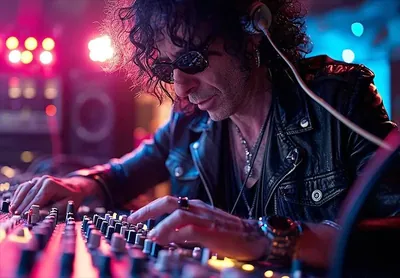
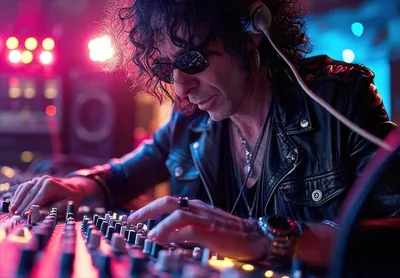
Sharpen the Monsters Invade Oz and Howard Stern pictures
Both were 800 px wide and drawn up to 1069 px, so they read soft on 2x screens. Upscaled 2x with Topaz Gigapixel (Standard) to 1600 px, served as WebP at 1600, 800 and 400 by the same srcset, so a 1x screen still loads about the same bytes.

diff --git a/index.html b/index.html
@@ -780,8 +780,8 @@ const WIDTHS = {
   [M + 'godaddy-aisearch-v1-web.webp']: [1400, 360, 720], [M + 'godaddy-aisearch-v2-web.webp']: [1400, 360, 720],
   [M + 'lexus-finished-pc-web.webp']: [1400, 360, 720], [M + 'lexus-gold-addy-web.webp']: [1400, 360, 720],
   [M + 'lexus-finished-screens-web.webp']: [1400, 360, 720], [M + 'fun/walletwars.webp']: [1400, 360, 720], [M + 'fun/design-canvas.webp']: [920, 360, 720],
-  [M + 'fun/voynich-research.webp']: [1200, 360, 720], 'images/gdc-best-in-play.jpg': [800, 400],
-  'images/howard-stern-web.webp': [800, 400], [M + 'charter/vitals-dark-web.webp']: [750, 360],
+  [M + 'fun/voynich-research.webp']: [1200, 360, 720], 'images/gdc-best-in-play-web.webp': [1600, 400, 800],
+  'images/howard-stern-web.webp': [1600, 400, 800], [M + 'charter/vitals-dark-web.webp']: [750, 360],
   [M + 'charter/heart-dark-web.webp']: [750, 360], [M + 'charter/sleep-dark.webp']: [600, 360],
   [M + 'scholar/logo-3d-web.webp']: [1254, 360, 720],
 };
@@ -898,9 +898,9 @@ const ROLES = [
     ] },
   { name: 'Monsters Invade Oz', sub: 'Little Box', line: 'A mobile game that reached the top 10 free games on the iOS App Store. I built and led the team, and illustrated and animated its 15,000-plus assets. That\'s a lot of monsters.',
     facts: [['Role', 'Co-Founder · Game Designer'], ['Areas', 'Illustration · Motion · Game Design']],
-    hero: [{ img: 'images/gdc-best-in-play.jpg', d: 'screen' }],
+    hero: [{ img: 'images/gdc-best-in-play-web.webp', d: 'screen' }],
     tiles: [
-      { name: 'Best in Play', logo: 'gdc', img: 'images/gdc-best-in-play.jpg', d: 'screen', stat: 'Game Developers Conference' },
+      { name: 'Best in Play', logo: 'gdc', img: 'images/gdc-best-in-play-web.webp', d: 'screen', stat: 'Game Developers Conference' },
       { name: 'Assets Drawn', figure: '15,000+', stat: 'Illustrated and animated' },
       { name: 'Top 10 Free Games', figure: 'Top 10', stat: 'iOS App Store free games' },
     ] },
